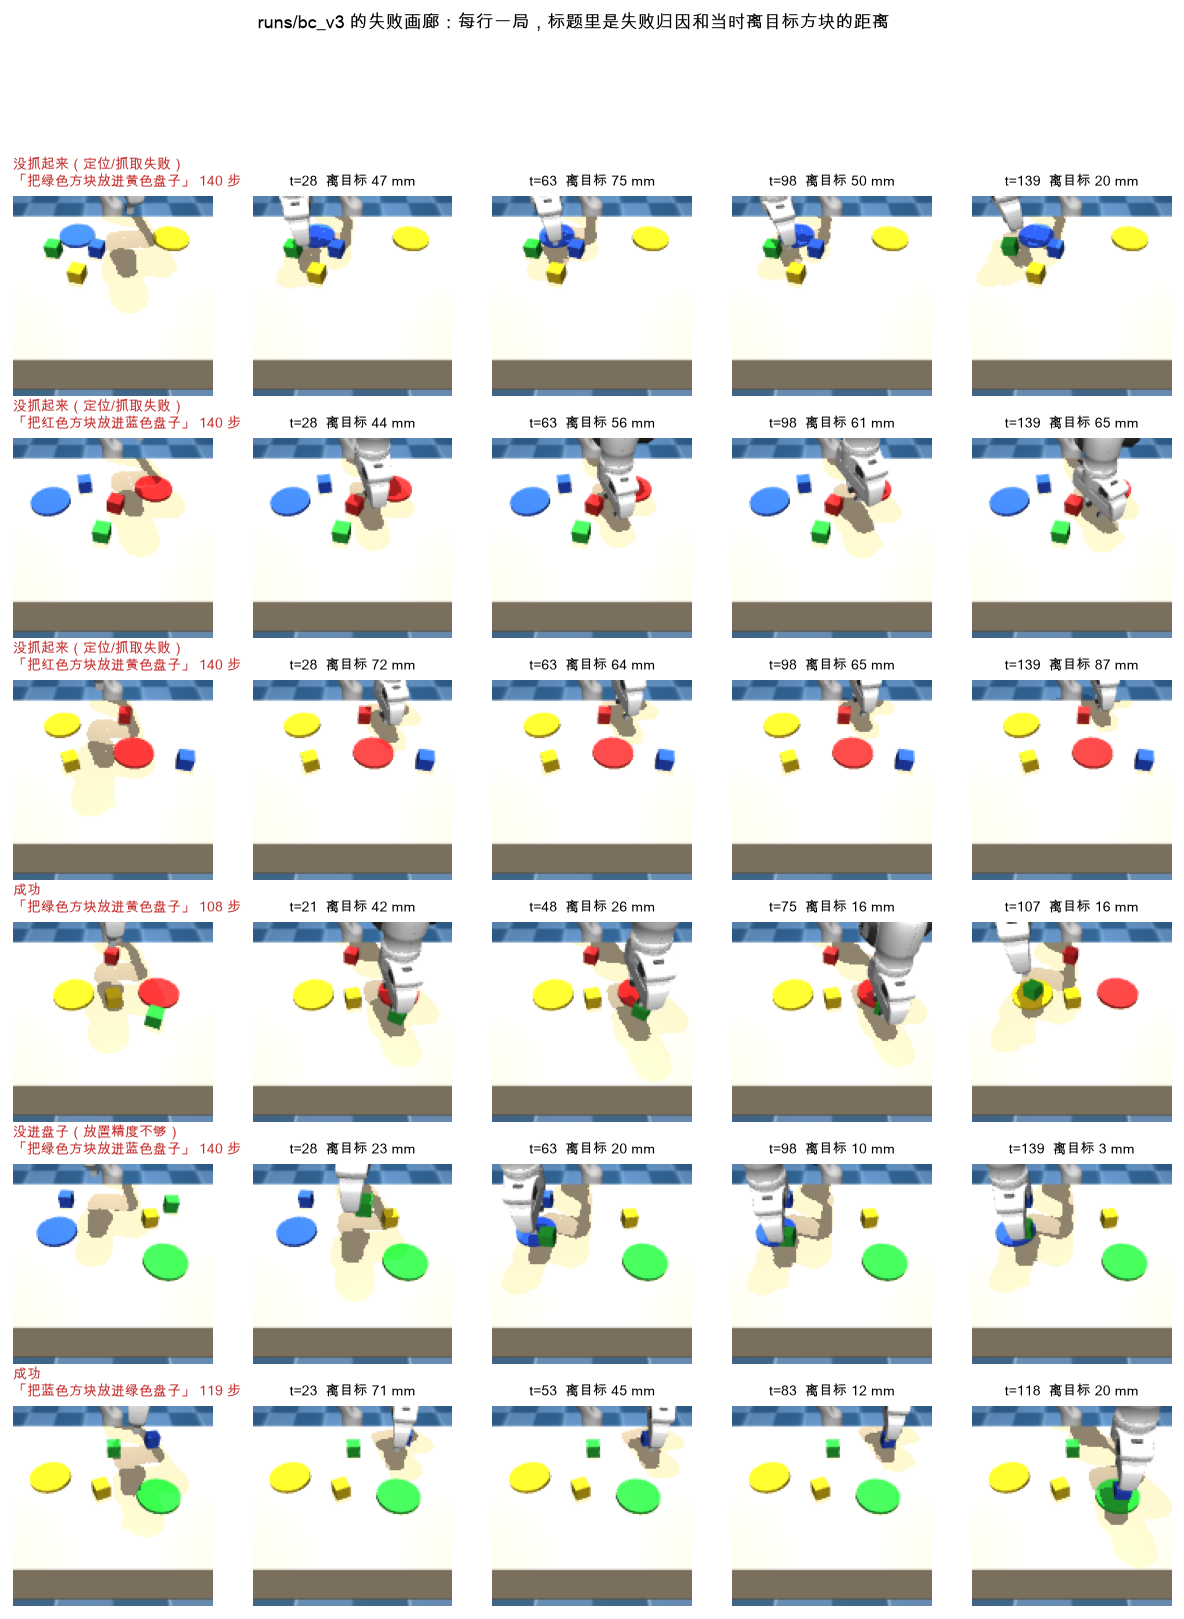
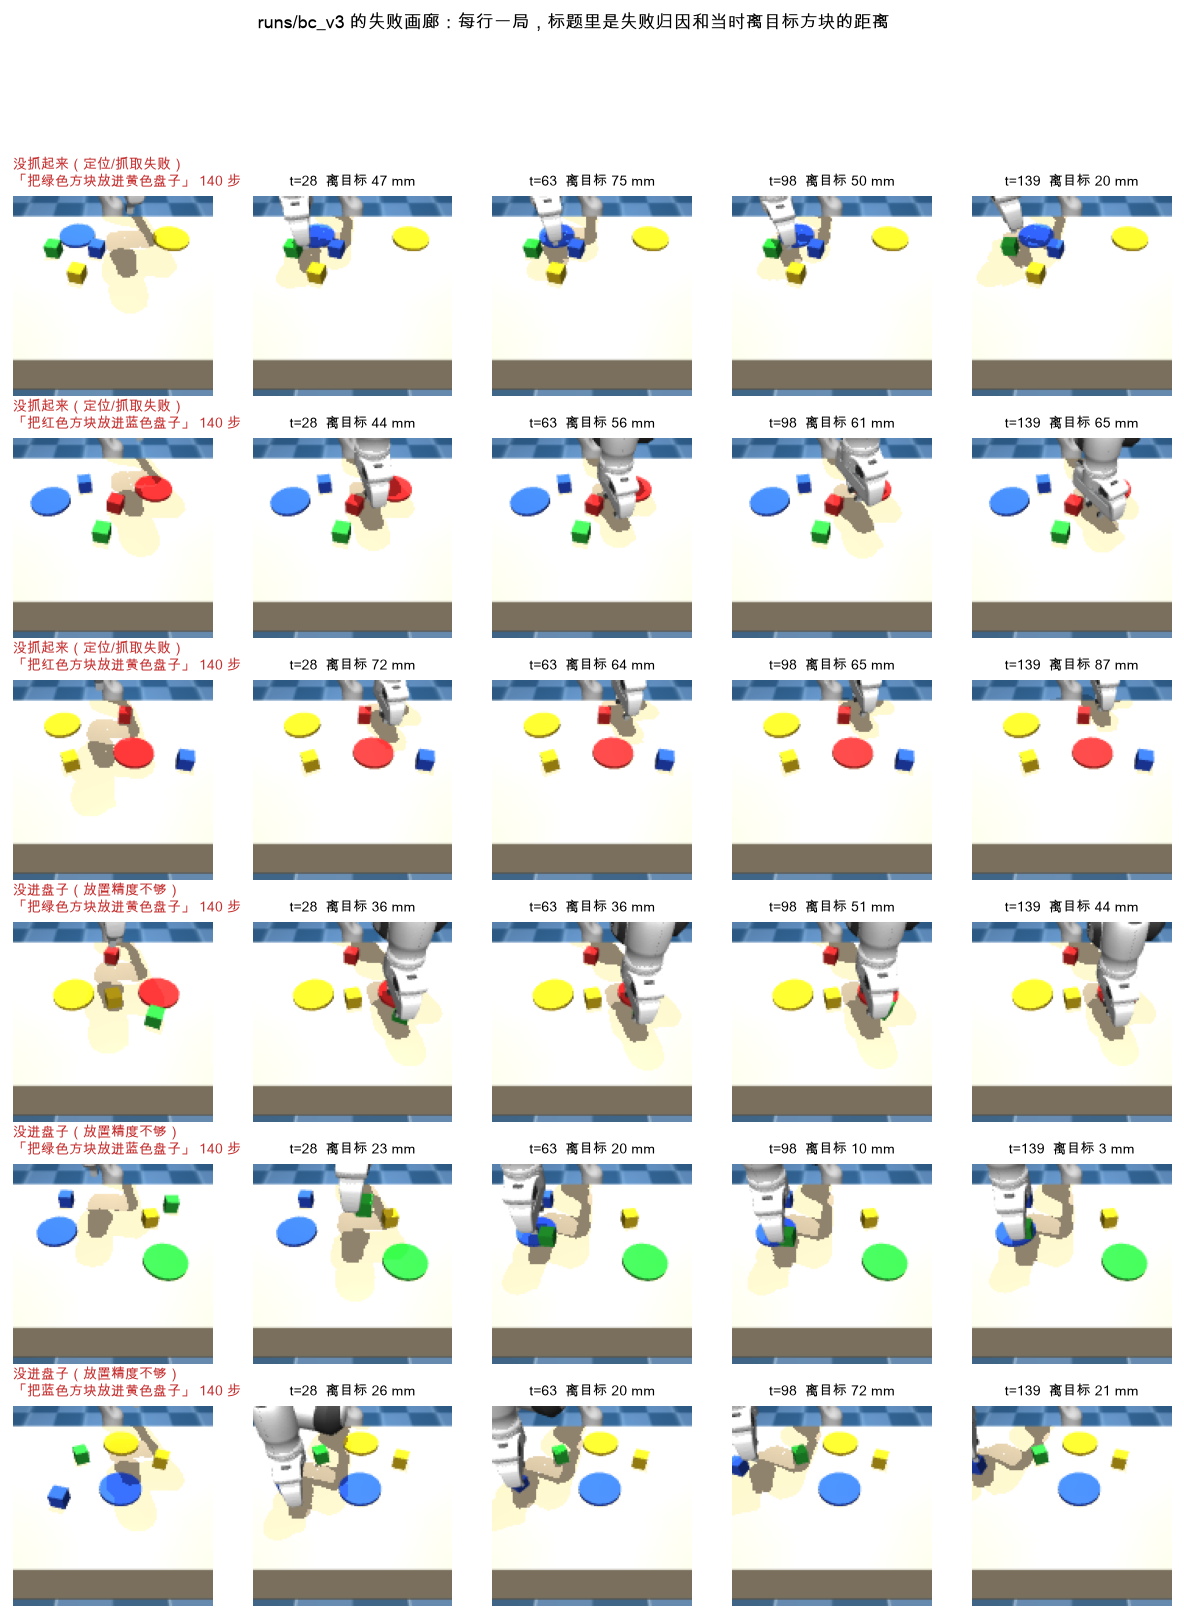
Failure gallery filtered by replay outcome

diff --git a/scripts/explain_failures.py b/scripts/explain_failures.py
@@ -56,10 +56,21 @@ def main():
 
     dev = torch.device("mps" if torch.backends.mps.is_available() else "cpu")
     kinds = [k for k in ("wrong_cube", "no_grasp", "off_plate") if k in by]
-    seeds = [s for k in kinds for s in by[k][:a.per_kind]]
+    # 多取几局备用：约 5% 的局在重跑时会因 MPS 浮点执行历史不同而翻转结果
+    # （见 notes/05-评测方法.md），所以按**重跑时的实际结果**筛选，而不是存档里的标签。
+    seeds = [s for k in kinds for s in by[k][:a.per_kind + 2]]
     if not seeds:
         print("没有失败局 🎉"); return
     eps = replay(a.run, seeds, dev)
+    kept, cnt = [], {}
+    for e in eps:
+        if e["outcome"] == "success":
+            continue
+        cnt[e["outcome"]] = cnt.get(e["outcome"], 0) + 1
+        if cnt[e["outcome"]] <= a.per_kind:
+            kept.append(e)
+    eps = kept
+    print("重跑后仍失败的局：", [(e["seed"], e["outcome"]) for e in eps])
 
     rows = len(eps)
     fig, axes = plt.subplots(rows, 5, figsize=(11.5, 2.35 * rows))
